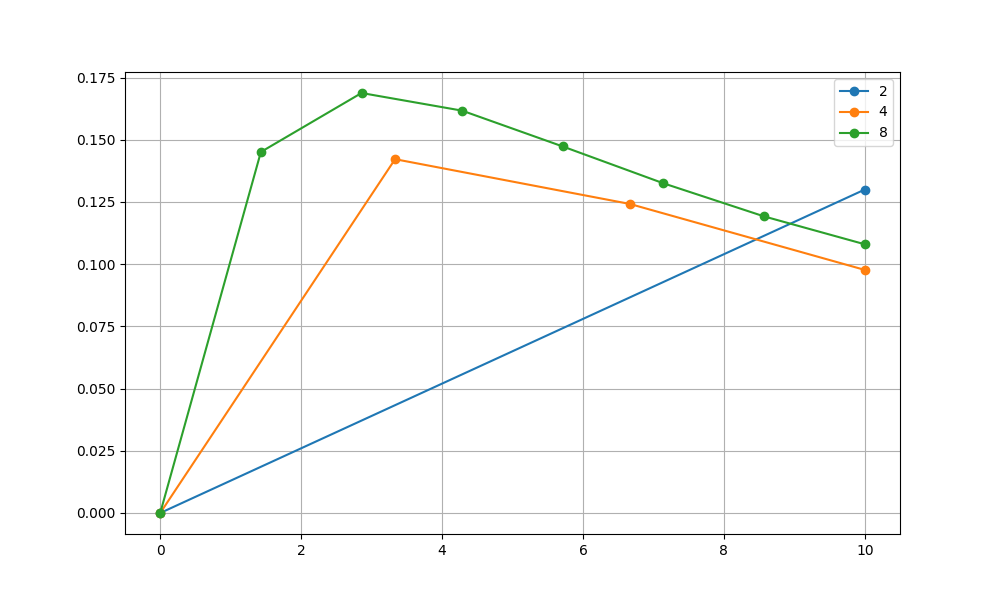
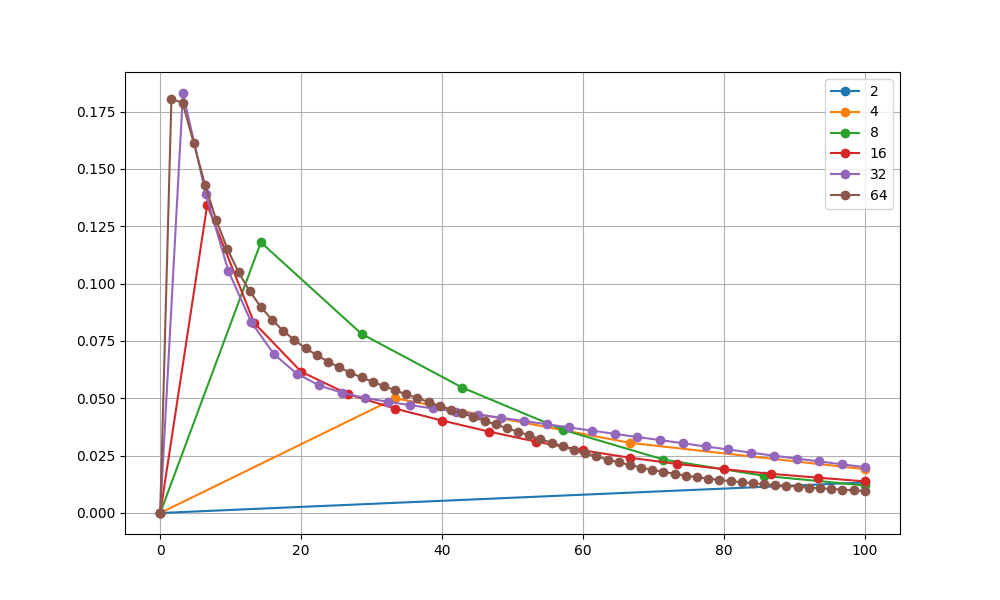
try runs

diff --git a/python/lyapunov_exponent.py b/python/lyapunov_exponent.py
@@ -68,7 +68,6 @@ def plotlyapunov_m(l,m):
     return fig
 #---------------- plotlyapunov_mt_surface ---------------------
 def plotlyapunov_ma_surface(m,a,l):
-    # print(m,a,l)
     m = np.log10(m)
     fig, ax = plt.subplots(subplot_kw={"projection": "3d"}, figsize=(10,8))
     # print('shape m:', np.shape(m))
@@ -76,9 +75,6 @@ def plotlyapunov_ma_surface(m,a,l):
     m, a = np.meshgrid(m, a)
     print('shape m:', np.shape(m))
     print('shape a:', np.shape(a))
-
-    # ax.set_xscale('log')
-    # ax.set_zscale('log')
     ax.set(zlabel = 'Lyap.-Expo.', xlabel = '$\log_{10}$($m$/$M_{Helga})$',
                 ylabel= '$a$/$a_{Jupiter}$')
     # ax.set_xlim(1e-13, 1e-8)
@@ -88,12 +84,21 @@ def plotlyapunov_ma_surface(m,a,l):
     # l = np.log10(l)
     l = np.transpose(l)
     print('shape l:', np.shape(l))
-
 # Plot the surface.
     surf = ax.plot_surface(m, a, l, cmap=cm.coolwarm, linewidth=0, antialiased=False)
-# Add a color bar which maps values to colors.
-    # fig.colorbar(surf, shrink=0.5, aspect=5)
     return fig
+#---------------- plotlyapunov_max ---------------------
+def plotlyapunov_max(masses,a_max_lyapunov,t):
+    fig, ax1 = plt.subplots(1,1)
+    ax1.set_xscale('log')
+    ax1.plot(masses,a_max_lyapunov, label= '')
+    ax1.set(xlabel = '$\log_{10}$($m$/$M_{Helga})$',
+                ylabel= '$a$/$a_{Jupiter}$')
+    plt.title('max. Lyapunovexponent nach $t = %3d$ years %(t)')
+
+    ax1.grid()
+    return fig
+#------------------------------------------------------
 # -------------- lyapunov_t_multiple ------------
 # creates a plot of lypanov-exponents over time for n EQUAL simulations of Helga
 # starting from given 'start' time and stepping in time with 'stepsize'
@@ -200,6 +205,8 @@ def lyapunov_helga_ma_stoerung(m_start,m_end,m_steps,a_start,a_end,a_steps,t):
     h = 0.696
     # lyapunovs: O-array
     lyapunovs = np.zeros((m_steps, a_steps))
+    a_max_lyapunov = np.zeros((m_steps))
+
     # print(lyapunovs)
     # masses: logaritmisch ansteigende Massenfaktoren
     masses = np.logspace(m_start, m_end, m_steps)
@@ -221,10 +228,13 @@ def lyapunov_helga_ma_stoerung(m_start,m_end,m_steps,a_start,a_end,a_steps,t):
                 l = 1e-8
             # print(l)
             lyapunovs[k,j] = l
+        a_max_lyapunov[k] = a[ np.where( lyapunovs[k,:] == max(lyapunovs[k,:]) ) ]
     # print(lyapunovs)
     fig1 = plotlyapunov_ma_surface(masses, a, lyapunovs)
     plt.title('$t = %3d$ years' %(t))
     fig1.savefig('lyapunov_exp_ma_stoerung.png')
+    fig2 = plotlyapunov_max(masses,a_max_lyapunov,t)
+    fig2.savefig('maximaler Lyapunovexponent')
 
 #----------------------------------------------------------------
 #-------------------- set parameters for functions---------------
@@ -245,12 +255,12 @@ m_t = 1e5
 m_runs = 4 # m_runs: wie oft soll die Schrittzahl verdoppelt werden
 
 m_start_2 = 1 # m_start: starting exponent base 10
-m_end_2 = 6 # m_end: ending exponent base 10
-m_steps_2 = 60
-a_start_2 = 0.697
+m_end_2 = 3 # m_end: ending exponent base 10
+m_steps_2 = 50
+a_start_2 = 0.695
 a_end_2 = 0.701
 a_steps_2 = 30
-t = 1e6
+t = 1e5
 
 if __name__ == "__main__":
     # lyapunov_t_multiple(t_n, t_start, t_end, t_steps)

diff --git a/python/test_lyapunov.py b/python/test_lyapunov.py
@@ -27,12 +27,12 @@ def test_1():
 
 def test_2():
     # a = [16,64,256,1024,4098]
-    a = [2,4,8,16]
+    a = [2,4,8,16,32,64]
     Lyapunov=[]
     S=[]
     T = []
     for i in range(len(a)):
-        times = np.linspace(0, 10, a[i])
+        times = np.linspace(0, 100, a[i])
         l = np.zeros(len(times))
         sim = visualize_orbit.setup('Helga', h)
         sim.integrator = "whfast"
@@ -57,6 +57,8 @@ def test_2():
     ax1.grid()
     for i in range(len(a)):
         ax1.plot(T[i],Lyapunov[i],'o-', label = '%d' %a[i])
+        # ax1.set_xscale('log')
+        # ax1.set_yscale('log')
         ax1.legend()
     fig.savefig('test_lyapunov.png')
 
